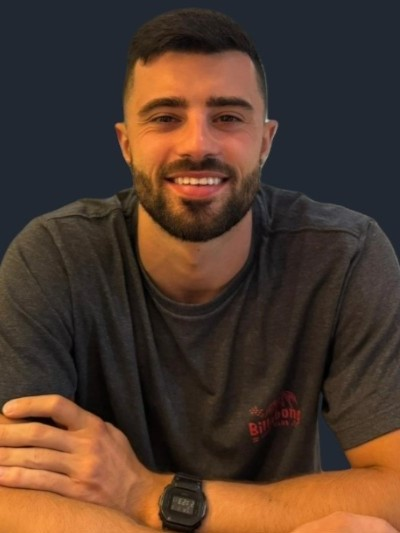
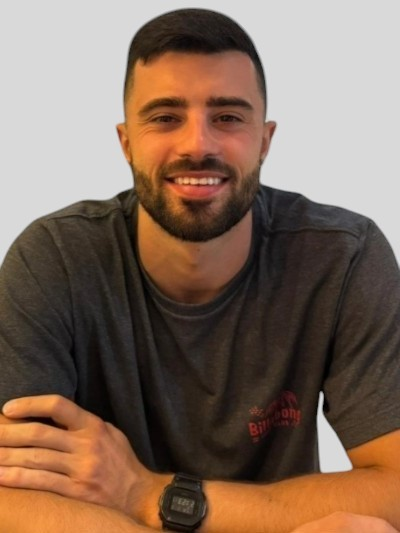
atualizando o projeto

Changed region(s): [[0.0, 0.0, 1.0, 0.5103], [0.78, 0.7205, 0.9, 0.9006]]

diff --git a/about.html b/about.html
@@ -24,42 +24,62 @@
     </header>
 
     <main class="apresentacao">
-            
+        <h1 class="apresentacao__conteudo__titulo">Sobre mim</h1>
+        <p class="apresentacao__conteudo__texto"> Estudante de ciência da computação na instituição
+            Anhanguera e Quality Assurance na escola online de
+            tecnologia Alura.
+            Possuo conhecimento em logica de programação e quality
+            assurance, testes automatizados com Cypress, além de
+            desenvolvimento Front-end com JavaScript e
+            conhecimento em HTML e CSS. </p>
     
-        
-            <p>Português: Língua materna.</p>
-            <p>Inglês: Básico.</p> 
-            
-        <h3 class="apresentacao__conteudo__titulo">Idiomas</h3>
-    
-            <p class="apresentacao__conteudo__texto">Simpático.</p>
-            <p class="apresentacao__conteudo__texto">Proativo.</p>
-            <p class="apresentacao__conteudo__texto">Conhecimento em Behavior Driven
-                Development.</p>
-            <p class="apresentacao__conteudo__texto">Conhecimento em automatização de testes com Cyprees Framework e Robot Framework.</p>
-            <p class="apresentacao__conteudo__texto">Conhecimento em Quality Assurance.</p>
-            <p class="apresentacao__conteudo__texto">Conhecimento em HTML e CSS.</p>
-            <p class="apresentacao__conteudo__texto">Conhecimento em Git e Github.</p>
-            <p class="apresentacao__conteudo__texto">Conhecimento em desenvolvimento Front-End a partir do Figma.</p>
-            <p class="apresentacao__conteudo__texto">Conhecimento em desenvolvimento Front-end com JavaScript.</p>
-            <p class="apresentacao__conteudo__texto">Conhecimento em Lógica de Programação com JavaScript.</p>
-        <h3 class="apresentacao__conteudo__titulo">Habilidades</h3>
-        <section class="apresentacao__conteudo">
-
-            <h1 class="apresentacao__conteudo__titulo">Sobre mim</h1>
-            <p class="apresentacao__conteudo__texto"> Estudante de ciência da computação na instituição
-                Anhanguera e Quality Assurance na escola online de
-                tecnologia Alura.
-                Possuo conhecimento em logica de programação e quality
-                assurance, testes automatizados com Cypress, além de
-                desenvolvimento Front-end com JavaScript e
-                conhecimento em HTML e CSS. </p>
         </section>
-        
-           
+
+        <section class="apresentacao__conteudo"> 
+            <h1 class="apresentacao__conteudo__titulo">Habilidades</h1>
+        <div class="tab">
+            <button class="tablinks " onclick="openTab(event, 'Tab1')">Lógica de Programação </button>
+            <button class="tablinks" onclick="openTab(event, 'Tab2')">Desenvolvimento com HTML e CSS</button>
+            <button class="tablinks" onclick="openTab(event, 'Tab3')">Desenvolvimento com JavaScript</button>
+            <button class="tablinks" onclick="openTab(event, 'Tab4')">Quality Assurance</button>
+        </div>
+        <div id="Tab1" class="tabcontent">
+            <h3 class="apresentacao__conteudo__subtitulo__certificados">Lógica de Programação</h3>
+            <p> <a class="apresentacao__links__certificados">Conhecimento em criar, analisar e resolver problemas computacionais de forma estruturada e eficiente.</a></p>       
+        </div>
+        <div id="Tab2" class="tabcontent">
+            <h3 class="apresentacao__conteudo__subtitulo__certificados">Desenvolvimento com HTML e CSS</h3>
+            <p> <a class="apresentacao__links__certificados">Desenvolvimento de layouts e páginas web com HTML e CSS.</a></p>
+            <p> <a class="apresentacao__links__certificados">Uso de ferramentas como Figma e Github.</a></p>
+            <p> <a class="apresentacao__links__certificados">Criação de páginas responsivas. </a></p>
+            <p> <a class="apresentacao__links__certificados">Organização  e de conteúdo com Flexbox.</a></p>       
+        </div>
+        <div id="Tab3" class="tabcontent">
+            <h3 class="apresentacao__conteudo__subtitulo__certificados">Desenvolvimento com JavaScript</h3>
+            <p> <a class="apresentacao__links__certificados">Criação de páginas dinâmicas.</a></p>
+            <p> <a class="apresentacao__links__certificados">Manipulação de elementos do DOM e LocalStorage.</a></p>
+            <p> <a class="apresentacao__links__certificados">Consumo de APIs.</a></p>
+            <p> <a class="apresentacao__links__certificados">Validações de formulários.</a></p>
+            <p> <a class="apresentacao__links__certificados">Uso de Express e MongoDB para desenvolvimento de aplicações.</a></p>       
+        </div>
+        <div id="Tab4" class="tabcontent">
+            <h3 class="apresentacao__conteudo__subtitulo__certificados">Quality Assurance</h3>
+            <p> <a class="apresentacao__links__certificados">Conhecimento em planos de testes e correção de bugs.</a></p> 
+            <p> <a class="apresentacao__links__certificados">Classificação de testes (caixa preta, caixa branca e E2E).</a></p> 
+            <p> <a class="apresentacao__links__certificados"> Testes manuais e automatizados com Cypress e Robot Framework.</a></p> 
+            <p> <a class="apresentacao__links__certificados">Integração contínua no GitHub Actions.</a></p> 
+            <p> <a class="apresentacao__links__certificados">Testes de API com Postman.</a></p> 
+            <p> <a class="apresentacao__links__certificados"> Testes unitários com Jest e no padrão Triple A.</a></p> 
+            <p> <a class="apresentacao__links__certificados"> Integração com Supertest.</a></p> 
+            <p> <a class="apresentacao__links__certificados">Testes em banco de dados.</a></p>       
+        </div>
+
+        <h3 class="apresentacao__conteudo__titulo">Idiomas</h3>
+        <p>Português: Língua materna.</p>
+        <p>Inglês: Básico.</p> 
         
 
     </main>
-
+    <script src="./js/script.js"></script>
 </body>
 </html>

diff --git a/index.html b/index.html
@@ -22,17 +22,15 @@
     </header>
 
     <main class="apresentacao , apresentacao__index">
+
+    <img  clas= "apresentacao__imagem" src= "./assets/Minha-imagem-Photoroom.jpg" alt = "Minha imagem">
+    <h1 class ="apresentacao__conteudo__titulo, apresentacao__conteudo__titulo__1280 ">Olá, seja bem-vindo(a) ao meu portfólio!</h1>
         
     <section class="apresentacao__conteudo">
         <h1 class ="apresentacao__conteudo__titulo, apresentacao__conteudo__titulo__none">Olá, seja bem-vindo(a) ao meu portfólio!</h1>
         <h3 class ="apresentacao__conteudo__subtitulo">Eleve seu negócio digital a outro nível com um Front-end de qualidade! </h3>
-        <p class="apresentacao__conteudo__texto">Sou Cristyan Fernandes, analista de qualidade e desenvolvedor front-end com especialidade em <strong class="apresentacao__conteudo__atencao">QA, testes automatizados com Cypress e Robot, front-end com JavaScript, CSS e HTML.</strong> Ajudo pequenos negócios e designers a colocarem em prática boas ideias com qualidade. Vá à página de contatos e vamos iniciar uma conversa!</p>
-    </section>
-    
-    <img  clas= "apresentacao__imagem" src= "./assets/Minha-imagem-Photoroom.jpg" alt = "Minha imagem">
-    <h1 class ="apresentacao__conteudo__titulo, apresentacao__conteudo__titulo__1280 ">Olá, seja bem-vindo(a) ao meu portfólio!</h1>
-    
-     
+        <p class="apresentacao__conteudo__texto">Sou Cristyan Fernandes, estudante de ciência da computação com especialidade em <strong class="apresentacao__conteudo__atencao">QA, testes automatizados com Cypress e Robot, testes de API, e integração continua além de desenvolvimento front-end com JavaScript, CSS e HTML.</strong> Ajudo pequenos negócios e designers a colocarem em prática boas ideias com qualidade. Vá à página de contatos e vamos iniciar uma conversa!</p>
+    </section> 
     </main>
 
 

diff --git a/style.css b/style.css
@@ -5,10 +5,10 @@
 
 
 :root{
-    --cor-primaria: #222831;
-    --cor-secundaria: #EEEEEE; 
-    --cor-terciaria: #76ABAE;
-    --cor-hover: #31363F;
+    --cor-primaria: #d9d9d9;
+    --cor-secundaria: #000000; 
+    --cor-terciaria: #000000;
+    --cor-hover: #eeeeee;
 
     --fonte-primaria: "Krona One", sans-serif;
     --fonte-secundaria: "Oswald";

diff --git a/styles/main.css b/styles/main.css
@@ -3,7 +3,7 @@
     align-items: center;
     text-align: center;
     justify-content: space-between;
-    flex-direction: column-reverse;
+    flex-direction: column;
     margin: 2em;
     height: auto;
     width: auto;   
